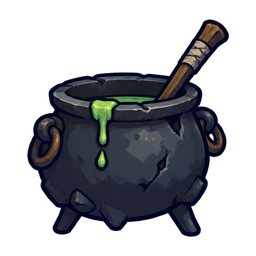
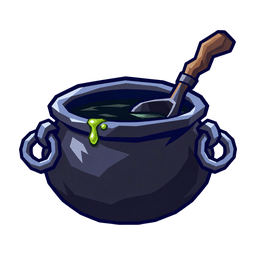
Art: Главарь с котелком (chief, ladle, sack, cauldron) for task 54; trophy-chief matches the fight cauldron

Changed region(s): [[0.0625, 0.0625, 0.9375, 0.9375], [0.5312, 0.7188, 0.5938, 0.75], [0.625, 0.7188, 0.6562, 0.75]]

diff --git a/docs/character-art-style.md b/docs/character-art-style.md
@@ -169,3 +169,12 @@ NOT smooth plastic surfaces, NOT excessive gradients.
 Предметы для задачи 51 (разделы 3.4 и 4), Codex `image_gen`, промпты — `artifacts/art-prompts/camp-props.json`; RGBA, прозрачный фон, проверено глазами на листе 16.10.2026 — стиль един с `troll-club.png` и `jailer-cage.png`, читаются в малом размере. Подключение — ui с видом задачи 51.
 - `public/art/camp/trace-basket.png` (корзина Марфы), `trace-wheel.png` (точильное колесо Ерофея), `trace-mug.png` (кружка с костями Шиша) — около 512 px.
 - `public/art/camp/trophy-jailer.png` (гиря с цепью), `trophy-severed.png` (обрубок цепи), `trophy-troll.png` (рог Тролля), `trophy-chief.png` (котелок Главаря), `trophy-shackles.png` (сломанные кандалы), `trophy-castellan.png` (знамя Кастеляна), `trophy-ash.png` (доска Испытания с восемью засечками), `trophy-bestiary.png` (чернильница Неясыти), `trophy-chain.png` (длинная цепь кольцом) — 256×256.
+
+### Босс леса — Главарь с котелком (17.10.2026)
+
+Набор для задачи 54 (`docs/design-notes/task-54-chief.md`, раздел 18), Codex `image_gen`, промпты — `artifacts/art-prompts/forest-boss.json`. Главарь нарисован по `boss.png` как образцу (лицо, корона, уши, клыки, ожерелье, плащ, палитра). Проверка `check-art.mjs` 17.10.2026: PASS для четырёх; глазами — стиль един с Троллем и Тюремщиком. Подключение — ui на шаге 54; до него — заглушки. `boss.png` остаётся в наборе как история (вид его не рисует).
+- `public/art/characters/chief.png` — Главарь: корона, клыки, рёв «Обед!», правая рука пустая ладонью вверх (половник — отдельно), без чайника и мешка, 1281×1263.
+- `public/art/characters/chief-ladle.png` — половник (предмет), 751×481.
+- `public/art/characters/chief-sack.png` — мешок с перцем, грибом и морковью (предмет), 751×677.
+- `public/art/characters/chief-cauldron.png` — котелок на трёх камнях с огнём; горловина пустая (варево и пар рисует вид цветом варева), 1000×813.
+- `public/art/camp/trophy-chief.png` перерисован: тот же котелок без огня, с половником — трофей «Котелок Главаря» совпадает с котелком боя.
